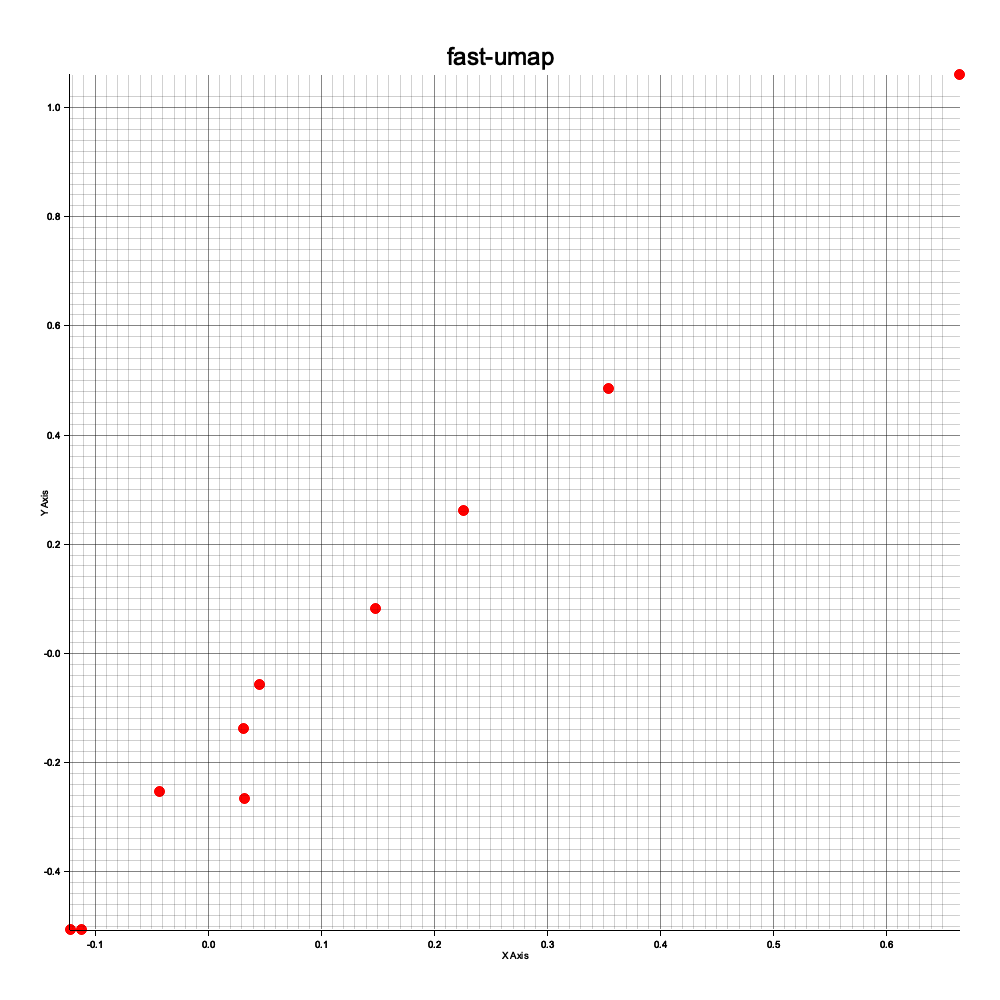
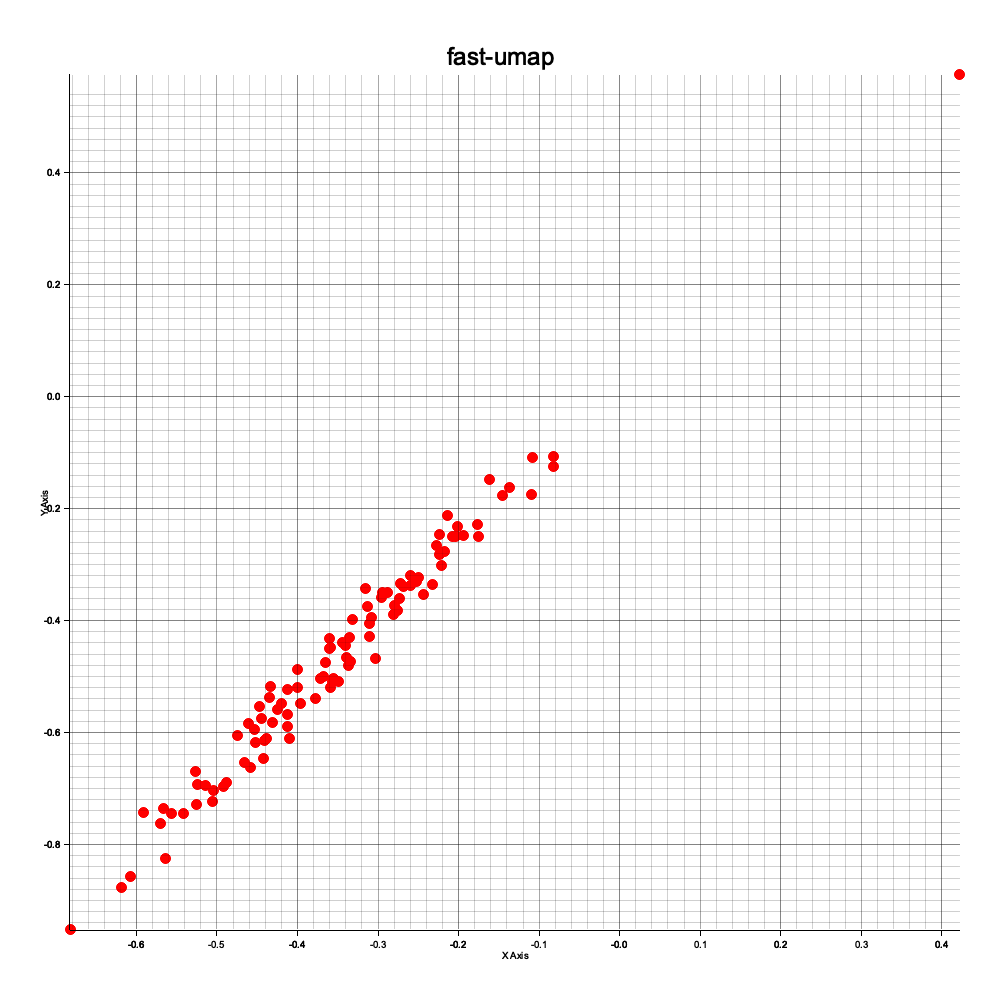
faster version of euclidean_knn

Changed region(s): [[0.062, 0.093, 0.961, 0.961]]

diff --git a/src/loss.rs b/src/loss.rs
@@ -61,39 +61,64 @@ pub fn euclidean<B: AutodiffBackend>(x: Tensor<B, 2>) -> Tensor<B, 1> {
 /// let result = euclidean_knn(x, k);
 /// // result will contain the sum of squared distances to the 2 nearest neighbors for each sample
 /// ```
+// pub fn euclidean_knn<B: AutodiffBackend>(x: Tensor<B, 2>, k: usize) -> Tensor<B, 1> {
+//     let n_samples = x.dims()[0]; // Number of samples (rows)
+//     let _n_features = x.dims()[1]; // Number of features (columns)
+
+//     // Expand x to shapes that allow broadcasting for pairwise subtraction:
+//     // Shape of x_expanded: (1, n_samples, n_features)
+//     let x_expanded = x.clone().unsqueeze::<3>();
+
+//     // Shape of x_transposed: (n_samples, 1, n_features)
+//     let x_transposed = x.clone().unsqueeze_dim(1);
+
+//     // Compute pairwise differences using broadcasting:
+//     // Shape: (n_samples, n_samples, n_features)
+//     let diff = x_expanded - x_transposed;
+
+//     // Element-wise square the differences:
+//     let squared_diff = diff.powi_scalar(2); // Shape: (n_samples, n_samples, n_features)
+
+//     // Sum along the feature dimension (axis 2) to get squared Euclidean distance:
+//     let pairwise_squared_distances = squared_diff.sum_dim(2); // Shape: (n_samples, n_samples)
+
+//     // Now, we have pairwise squared distances in `pairwise_squared_distances`
+//     // For each sample, we want to find the k nearest neighbors, so we do the following:
+
+//     // Get the top K smallest distances (along axis 1) and the corresponding indices:
+//     let (top_k_distances, _top_k_indices) = pairwise_squared_distances.topk_with_indices(k, 1);
+
+//     // Sort distances in ascending order to ensure we are taking the smallest ones:
+//     let top_k_distances = top_k_distances.sort_descending(1);
+
+//     // Sum up the top K distances (you could also take the mean, depending on your loss function):
+//     let sum_of_top_k_distances = top_k_distances.sum_dim(1).reshape([n_samples]); // Shape: (n_samples)
+
+//     // You can return the sum of distances to K nearest neighbors (or use this as part of your loss):
+//     sum_of_top_k_distances
+// }
+
 pub fn euclidean_knn<B: AutodiffBackend>(x: Tensor<B, 2>, k: usize) -> Tensor<B, 1> {
     let n_samples = x.dims()[0]; // Number of samples (rows)
-    let _n_features = x.dims()[1]; // Number of features (columns)
+    let n_features = x.dims()[1]; // Number of features (columns)
 
-    // Expand x to shapes that allow broadcasting for pairwise subtraction:
-    // Shape of x_expanded: (1, n_samples, n_features)
-    let x_expanded = x.clone().unsqueeze::<3>();
+    // Efficient pairwise squared Euclidean distance computation:
+    // We compute the distances without explicitly creating the full 3D tensor.
 
-    // Shape of x_transposed: (n_samples, 1, n_features)
-    let x_transposed = x.clone().unsqueeze_dim(1);
+    // Step 1: Compute the squared norm of each sample (x^2)
+    let x_norm_squared = x.clone().powi_scalar(2).sum_dim(1); // Shape: (n_samples)
 
-    // Compute pairwise differences using broadcasting:
-    // Shape: (n_samples, n_samples, n_features)
-    let diff = x_expanded - x_transposed;
+    // Step 2: Compute pairwise squared Euclidean distances using broadcasting
+    let pairwise_squared_distances = x_norm_squared.clone().unsqueeze_dim(1)
+        + x_norm_squared.unsqueeze_dim(0)
+        - x.clone().matmul(x.clone().transpose()).mul_scalar(2.0); // Shape: (n_samples, n_samples)
 
-    // Element-wise square the differences:
-    let squared_diff = diff.powi_scalar(2); // Shape: (n_samples, n_samples, n_features)
-
-    // Sum along the feature dimension (axis 2) to get squared Euclidean distance:
-    let pairwise_squared_distances = squared_diff.sum_dim(2); // Shape: (n_samples, n_samples)
-
-    // Now, we have pairwise squared distances in `pairwise_squared_distances`
-    // For each sample, we want to find the k nearest neighbors, so we do the following:
-
-    // Get the top K smallest distances (along axis 1) and the corresponding indices:
+    // Step 3: Get the top K smallest distances for each sample (along axis 1)
     let (top_k_distances, _top_k_indices) = pairwise_squared_distances.topk_with_indices(k, 1);
 
-    // Sort distances in ascending order to ensure we are taking the smallest ones:
-    let top_k_distances = top_k_distances.sort_descending(1);
-
-    // Sum up the top K distances (you could also take the mean, depending on your loss function):
+    // Step 4: Sum the top K distances for each sample
     let sum_of_top_k_distances = top_k_distances.sum_dim(1).reshape([n_samples]); // Shape: (n_samples)
 
-    // You can return the sum of distances to K nearest neighbors (or use this as part of your loss):
+    // Return the sum of the top K distances
     sum_of_top_k_distances
 }

diff --git a/examples/advanced.rs b/examples/advanced.rs
@@ -24,8 +24,8 @@ fn main() {
 
     // Set the training parameters
     let batch_size = 1; // Batch size for training
-    let num_samples = 10; //1000; // Number of samples in the dataset
-    let num_features = 10; // 100; // Number of features (dimensions) for each sample
+    let num_samples = 1000; //1000; // Number of samples in the dataset
+    let num_features = 100; // 100; // Number of features (dimensions) for each sample
     let k_neighbors = 10; // should be smaller than k_neighbors
     let output_size = 2; // Number of output dimensions (e.g., 2 for 2D embeddings)
     let hidden_size = 100; // Size of the hidden layer in the neural network
